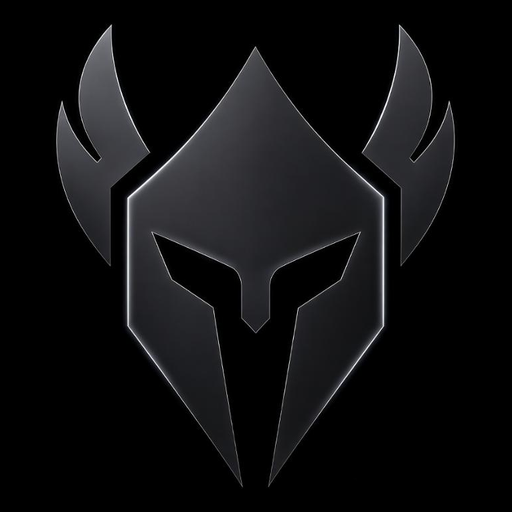
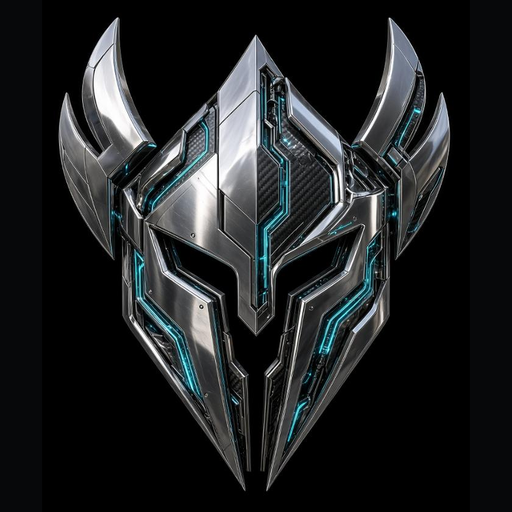
Swap in the chrome helm, cropped tight for tab and header
Trim leftover canvas. Keep the mark square with black letterbox so the blades are not stretched.

Changed region(s): [[0.0938, 0.0312, 0.9062, 0.9688]]

diff --git a/src/routes/__root.tsx b/src/routes/__root.tsx
@@ -17,11 +17,11 @@ export const Route = createRootRoute({
       { name: "color-scheme", content: "dark" },
     ],
     links: [
-      { rel: "icon", type: "image/svg+xml", href: "/favicon.svg?v=helm" },
-      { rel: "icon", href: "/favicon.ico?v=helm", sizes: "any" },
-      { rel: "icon", type: "image/png", sizes: "32x32", href: "/favicon-32.png?v=helm" },
-      { rel: "icon", type: "image/png", sizes: "48x48", href: "/favicon-48.png?v=helm" },
-      { rel: "apple-touch-icon", href: "/apple-touch-icon.png?v=helm" },
+      { rel: "icon", type: "image/svg+xml", href: "/favicon.svg?v=helm2" },
+      { rel: "icon", href: "/favicon.ico?v=helm2", sizes: "any" },
+      { rel: "icon", type: "image/png", sizes: "32x32", href: "/favicon-32.png?v=helm2" },
+      { rel: "icon", type: "image/png", sizes: "48x48", href: "/favicon-48.png?v=helm2" },
+      { rel: "apple-touch-icon", href: "/apple-touch-icon.png?v=helm2" },
       { rel: "preconnect", href: "https://fonts.googleapis.com" },
       {
         rel: "preconnect",

diff --git a/src/components/site-shell.tsx b/src/components/site-shell.tsx
@@ -28,11 +28,11 @@ function SiteHeader() {
           className="inline-flex min-h-11 items-center gap-2.5 text-sm font-medium tracking-tight"
         >
           <img
-            src="/icon.png"
+            src="/icon.png?v=helm2"
             alt=""
-            width={28}
-            height={28}
-            className="size-7 shrink-0 object-contain"
+            width={32}
+            height={32}
+            className="size-8 shrink-0 object-contain"
             decoding="async"
           />
           {SITE.name}
